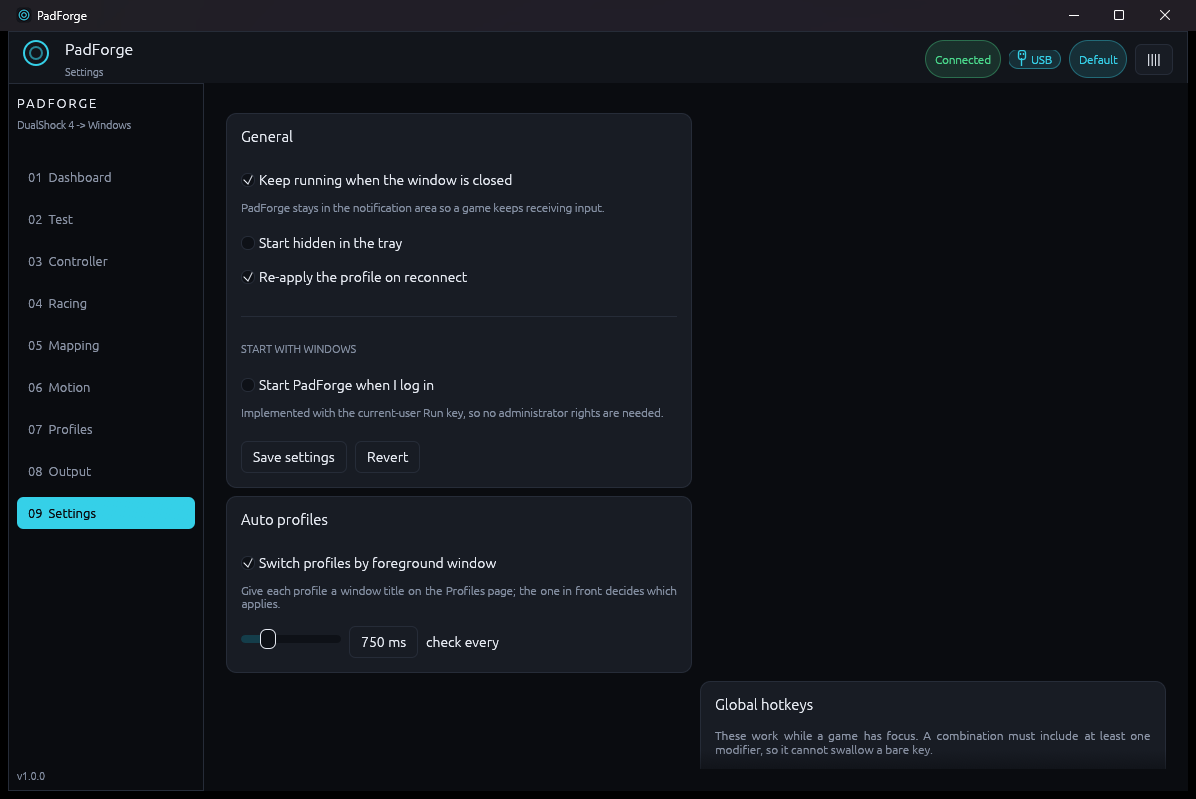
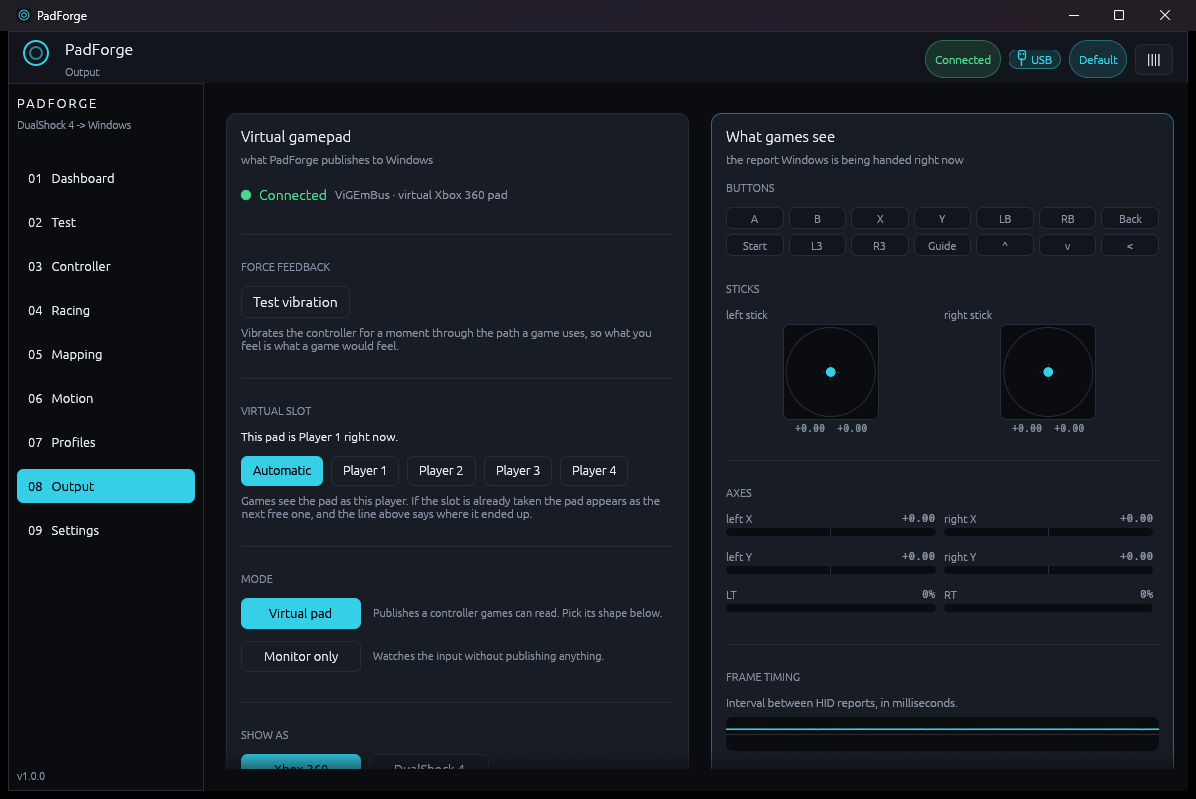
Make the navigation say what each page is for, and give tiles a real hover
Two pieces of the interface were asking the reader to work for information that
was already written down.

The rail named nine pages and stopped there. Each page already carries a
one-sentence blurb, shown on the dashboard's tiles, so hovering a rail entry now
shows the same sentence. A page is no longer something you have to open to find
out what it is for.

The tiles themselves had a hover that did two things wrong. It painted a white
wash at 8/255, which is too faint to register as feedback at all, and it painted
it *after* the card's contents -- so the wash laid a translucent film over the
title and the blurb, the two pieces of text the tile exists to show. The hovered
state is now chosen before the card is drawn, which means the card can simply be
drawn in it.

The rail's tag also stopped competing with the page name: the number and the
title were one run of the same colour and weight, so "08 Output" read as a unit
rather than as a position plus a name.

Screenshots retaken.

diff --git a/crates/padforge/src/app.rs b/crates/padforge/src/app.rs
@@ -375,10 +375,22 @@ impl App {
 
         for page in Page::ALL {
             let selected = self.state.page == *page;
-            let text = RichText::new(format!("{}  {}", page.tag(), page.title()))
-                .color(if selected { BACKDROP } else { TEXT_MUTED })
-                .size(13.0);
-            let button = egui::Button::new(text)
+            // The number stays dim when the row is not selected. It is a
+            // position, not a step in a sequence, and dimming it is what keeps
+            // a decorative number from competing with the page's actual name.
+            // A Button rather than hand-painted text and a manual interact: it already
+            // resolves hover, click and keyboard focus, and the accent fill is
+            // what marks the current page.
+            //
+            // egui's Button lays a single RichText out, so the two runs are
+            // joined into one. The tag is dimmed when the row is not selected
+            // because it is a position, not a step in a sequence, and dimming
+            // keeps a decorative number from competing with the page's name.
+            let label = egui::RichText::new(format!("{}   {}", page.tag(), page.title()))
+                .color(if selected { BACKDROP } else { TEXT })
+                .size(13.0)
+                .strong();
+            let button = egui::Button::new(label)
                 .fill(if selected {
                     ACCENT
                 } else {
@@ -386,8 +398,13 @@ impl App {
                 })
                 .stroke(Stroke::NONE)
                 .corner_radius(RADIUS_SM)
-                .min_size(egui::vec2(ui.available_width(), 32.0));
-            if ui.add(button).clicked() {
+                .min_size(egui::vec2(ui.available_width(), 34.0));
+            // The blurb as hover text: the rail names nine pages, and the one
+            // sentence each is for is already written and shown on the
+            // dashboard's tiles. Saying it here too means a page is never
+            // something you have to open to find out what it is for.
+            let response = ui.add(button).on_hover_text(page.blurb());
+            if response.clicked() {
                 self.state.page = *page;
             }
             ui.add_space(2.0);

diff --git a/crates/padforge/src/pages/dashboard.rs b/crates/padforge/src/pages/dashboard.rs
@@ -182,25 +182,29 @@ fn navigate(ui: &mut egui::Ui, ctx: &mut super::Ctx) {
 }
 
 /// A card that acts as one big button.
+///
+/// The hovered state is chosen *before* the card is drawn. Painting a wash
+/// afterwards -- which is what this used to do -- lays a translucent film over
+/// the title and the blurb, and those two pieces of text are the entire reason
+/// the tile exists. It also used a white wash at 8/255, which is too faint to
+/// register as feedback at all.
 fn tile(ui: &mut egui::Ui, ctx: &mut super::Ctx, page: Page, name: &str, sub: &str) {
-    let inner = card().show(ui, |ui| {
+    let probe = ui.interact(
+        ui.available_rect_before_wrap(),
+        ui.make_persistent_id(("tile", page.title())),
+        egui::Sense::click(),
+    );
+    let frame = if probe.hovered() || probe.clicked() {
+        card_accent()
+    } else {
+        card()
+    };
+    frame.show(ui, |ui| {
         ui.set_min_height(28.0);
         ui.label(RichText::new(name).color(TEXT).size(14.0).strong());
         ui.label(RichText::new(sub).color(TEXT_FAINT).size(11.0));
     });
-    let hit = ui.interact(
-        inner.response.rect,
-        inner.response.id.with("tile"),
-        egui::Sense::click(),
-    );
-    if hit.hovered() {
-        ui.painter().rect_filled(
-            inner.response.rect,
-            RADIUS_MD,
-            egui::Color32::from_white_alpha(8),
-        );
-    }
-    if hit.clicked() {
+    if probe.clicked() {
         ctx.state.page = page;
     }
 }
